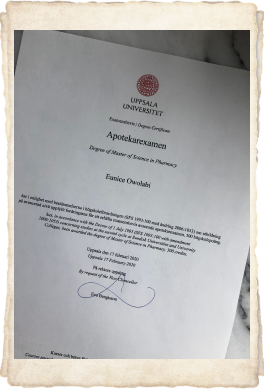
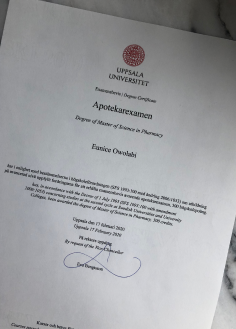
changed img in om mig section

diff --git a/src/Om mig/style.css b/src/Om mig/style.css
@@ -20,6 +20,10 @@
   justify-content: center;
 }
 
+.om-mig-img {
+  border-radius: 10px;
+}
+
 @media (min-width: 768px) {
   .om-container {
     padding: 0 5% 5%;
